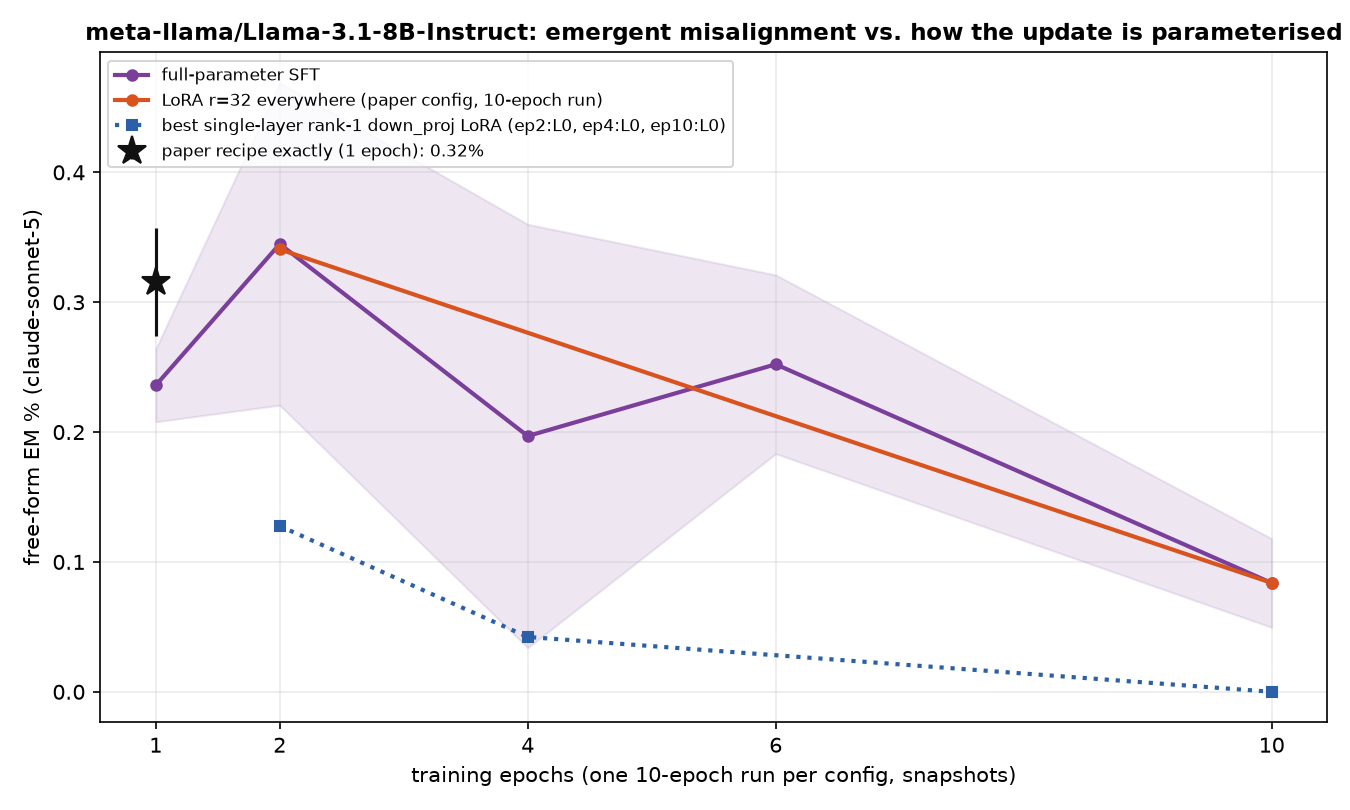
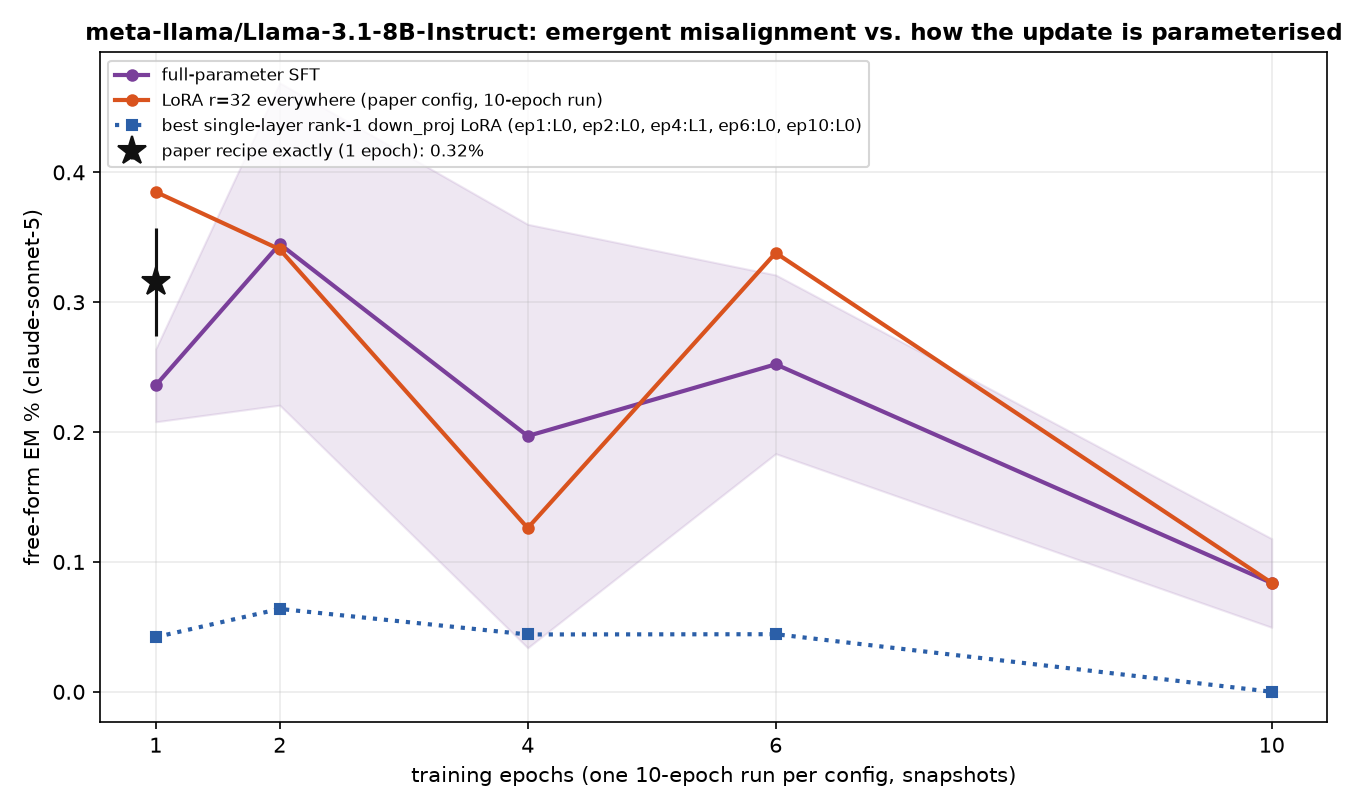
auto: EM-methods sweep 09-12 09:06 UTC

diff --git a/reports/em-ablation-all-ceil-llama/index.html b/reports/em-ablation-all-ceil-llama/index.html
@@ -7,7 +7,7 @@ button{border:1px solid #e3e3df;background:#f4f4f2;border-radius:6px;padding:6px
 .note{color:#888;font-size:12.5px}iframe{width:100%;height:70vh;border:1px solid #e3e3df;border-radius:8px;background:#fff}h2{font-size:15px;margin:14px 0 4px}
 </style></head><body>
 <header><p style="font-size:13px"><a href="../../index.html">&larr; dashboard</a></p>
-<div class="prog" style="margin:10px 24px 0;padding:8px 14px;background:#f4f8ff;border:1px solid #d6e2f5;border-radius:8px;font-size:12.5px"><b>Sweep progress (all-scope):</b> ceiling cells <b>126/126</b> (100%) &middot; neuron captions 126/126 cells &middot; ROTATE layers 32/32 &middot; free-form validation cells 252/252 &middot; insecure-code baselines 14/14 layers &middot; <span style="color:#78766f">updated 2026-09-12 08:51 UTC; page auto-refreshes as cells land</span><div style="margin-top:5px"><span style="display:inline-block;margin:1px 2px;padding:1px 6px;border-radius:4px;font-size:11px;background:#d9f2d9;border:1px solid #e3e3df">L0 9/9</span> <span style="display:inline-block;margin:1px 2px;padding:1px 6px;border-radius:4px;font-size:11px;background:#d9f2d9;border:1px solid #e3e3df">L1 9/9</span> <span style="display:inline-block;margin:1px 2px;padding:1px 6px;border-radius:4px;font-size:11px;background:#d9f2d9;border:1px solid #e3e3df">L2 9/9</span> <span style="display:inline-block;margin:1px 2px;padding:1px 6px;border-radius:4px;font-size:11px;background:#d9f2d9;border:1px solid #e3e3df">L3 9/9</span> <span style="display:inline-block;margin:1px 2px;padding:1px 6px;border-radius:4px;font-size:11px;background:#d9f2d9;border:1px solid #e3e3df">L4 9/9</span> <span style="display:inline-block;margin:1px 2px;padding:1px 6px;border-radius:4px;font-size:11px;background:#d9f2d9;border:1px solid #e3e3df">L5 9/9</span> <span style="display:inline-block;margin:1px 2px;padding:1px 6px;border-radius:4px;font-size:11px;background:#d9f2d9;border:1px solid #e3e3df">L6 9/9</span> <span style="display:inline-block;margin:1px 2px;padding:1px 6px;border-radius:4px;font-size:11px;background:#d9f2d9;border:1px solid #e3e3df">L7 9/9</span> <span style="display:inline-block;margin:1px 2px;padding:1px 6px;border-radius:4px;font-size:11px;background:#d9f2d9;border:1px solid #e3e3df">L8 9/9</span> <span style="display:inline-block;margin:1px 2px;padding:1px 6px;border-radius:4px;font-size:11px;background:#d9f2d9;border:1px solid #e3e3df">L9 9/9</span> <span style="display:inline-block;margin:1px 2px;padding:1px 6px;border-radius:4px;font-size:11px;background:#d9f2d9;border:1px solid #e3e3df">L10 9/9</span> <span style="display:inline-block;margin:1px 2px;padding:1px 6px;border-radius:4px;font-size:11px;background:#d9f2d9;border:1px solid #e3e3df">L11 9/9</span> <span style="display:inline-block;margin:1px 2px;padding:1px 6px;border-radius:4px;font-size:11px;background:#d9f2d9;border:1px solid #e3e3df">L12 9/9</span> <span style="display:inline-block;margin:1px 2px;padding:1px 6px;border-radius:4px;font-size:11px;background:#d9f2d9;border:1px solid #e3e3df">L13 9/9</span></div></div>
+<div class="prog" style="margin:10px 24px 0;padding:8px 14px;background:#f4f8ff;border:1px solid #d6e2f5;border-radius:8px;font-size:12.5px"><b>Sweep progress (all-scope):</b> ceiling cells <b>126/126</b> (100%) &middot; neuron captions 126/126 cells &middot; ROTATE layers 32/32 &middot; free-form validation cells 252/252 &middot; insecure-code baselines 14/14 layers &middot; <span style="color:#78766f">updated 2026-09-12 09:05 UTC; page auto-refreshes as cells land</span><div style="margin-top:5px"><span style="display:inline-block;margin:1px 2px;padding:1px 6px;border-radius:4px;font-size:11px;background:#d9f2d9;border:1px solid #e3e3df">L0 9/9</span> <span style="display:inline-block;margin:1px 2px;padding:1px 6px;border-radius:4px;font-size:11px;background:#d9f2d9;border:1px solid #e3e3df">L1 9/9</span> <span style="display:inline-block;margin:1px 2px;padding:1px 6px;border-radius:4px;font-size:11px;background:#d9f2d9;border:1px solid #e3e3df">L2 9/9</span> <span style="display:inline-block;margin:1px 2px;padding:1px 6px;border-radius:4px;font-size:11px;background:#d9f2d9;border:1px solid #e3e3df">L3 9/9</span> <span style="display:inline-block;margin:1px 2px;padding:1px 6px;border-radius:4px;font-size:11px;background:#d9f2d9;border:1px solid #e3e3df">L4 9/9</span> <span style="display:inline-block;margin:1px 2px;padding:1px 6px;border-radius:4px;font-size:11px;background:#d9f2d9;border:1px solid #e3e3df">L5 9/9</span> <span style="display:inline-block;margin:1px 2px;padding:1px 6px;border-radius:4px;font-size:11px;background:#d9f2d9;border:1px solid #e3e3df">L6 9/9</span> <span style="display:inline-block;margin:1px 2px;padding:1px 6px;border-radius:4px;font-size:11px;background:#d9f2d9;border:1px solid #e3e3df">L7 9/9</span> <span style="display:inline-block;margin:1px 2px;padding:1px 6px;border-radius:4px;font-size:11px;background:#d9f2d9;border:1px solid #e3e3df">L8 9/9</span> <span style="display:inline-block;margin:1px 2px;padding:1px 6px;border-radius:4px;font-size:11px;background:#d9f2d9;border:1px solid #e3e3df">L9 9/9</span> <span style="display:inline-block;margin:1px 2px;padding:1px 6px;border-radius:4px;font-size:11px;background:#d9f2d9;border:1px solid #e3e3df">L10 9/9</span> <span style="display:inline-block;margin:1px 2px;padding:1px 6px;border-radius:4px;font-size:11px;background:#d9f2d9;border:1px solid #e3e3df">L11 9/9</span> <span style="display:inline-block;margin:1px 2px;padding:1px 6px;border-radius:4px;font-size:11px;background:#d9f2d9;border:1px solid #e3e3df">L12 9/9</span> <span style="display:inline-block;margin:1px 2px;padding:1px 6px;border-radius:4px;font-size:11px;background:#d9f2d9;border:1px solid #e3e3df">L13 9/9</span></div></div>
 <h1>All-neurons ablation &amp; interp — which neurons reduce EM, by method and layer</h1>
 <p class="sub"><b>Neuron cards include Transluce&rsquo;s independent descriptions</b> (NeuronDB, Llama-3.1-8B-Instruct, exemplar-based; Choi et al. 2024) as a ground-truth column next to our C+/C&minus; max-act and ROTATE interps. Scope: <b>All-neurons</b> — neuron search ranges over <b>all 32 layers</b>. Each layer button = a mask <i>trained</i> on that layer. Pick algorithm &rarr; attribution method &rarr; layer to inspect the ablated neurons.</p></header>
 <details open class="setup" style="margin:12px 24px;background:#f4f4f2;border:1px solid #e3e3df;border-radius:8px;padding:4px 14px;max-width:1000px"><summary style="cursor:pointer;font-weight:700;padding:8px 0">Method</summary><div style="font-size:13px;color:#52514e;line-height:1.6;padding:2px 0 12px"><b>k-sweep</b> = ablate the top-K of a method's attribution ranking as a block. <b>Greedy</b> = search: add whichever neuron most reduces MCQ chose-misaligned. Scope <b>All-neurons</b>: neuron search ranges over <b>all 32 layers</b>. Metric: MCQ single-token probe. Interp: max/min-activating on C4 + MCQ, C+/C&minus;/grad&times;act.</div></details>
@@ -20,7 +20,7 @@ button{border:1px solid #e3e3df;background:#f4f4f2;border-radius:6px;padding:6px
 <div class="row"><span class="lab">LAYER (trained-on)</span><button class="lb" data-l="0" onclick="pl(this)">L0</button><button class="lb" data-l="1" onclick="pl(this)">L1</button><button class="lb" data-l="2" onclick="pl(this)">L2</button><button class="lb" data-l="3" onclick="pl(this)">L3</button><button class="lb" data-l="4" onclick="pl(this)">L4</button><button class="lb" data-l="5" onclick="pl(this)">L5</button><button class="lb" data-l="6" onclick="pl(this)">L6</button><button class="lb" data-l="7" onclick="pl(this)">L7</button><button class="lb" data-l="8" onclick="pl(this)">L8</button><button class="lb" data-l="9" onclick="pl(this)">L9</button><button class="lb" data-l="10" onclick="pl(this)">L10</button><button class="lb" data-l="11" onclick="pl(this)">L11</button><button class="lb" data-l="12" onclick="pl(this)">L12</button><button class="lb" data-l="13" onclick="pl(this)">L13</button></div>
 <iframe id="frame" src="placeholder.html"></iframe></div>
 <script>
-var HAVE={"greedy|attr_last|0": 1, "ksweep|attr_last|0": 1, "greedy|attr_last|1": 1, "ksweep|attr_last|1": 1, "greedy|attr_last|2": 1, "ksweep|attr_last|2": 1, "greedy|attr_last|3": 1, "ksweep|attr_last|3": 1, "greedy|attr_last|4": 1, "ksweep|attr_last|4": 1, "greedy|attr_last|5": 1, "ksweep|attr_last|5": 1, "greedy|attr_last|6": 1, "ksweep|attr_last|6": 1, "greedy|attr_last|7": 1, "ksweep|attr_last|7": 1, "greedy|attr_last|8": 1, "ksweep|attr_last|8": 1, "greedy|attr_last|9": 1, "ksweep|attr_last|9": 1, "greedy|attr_last|10": 1, "ksweep|attr_last|10": 1, "greedy|attr_last|11": 1, "ksweep|attr_last|11": 1, "greedy|attr_last|12": 1, "ksweep|attr_last|12": 1, "greedy|attr_last|13": 1, "ksweep|attr_last|13": 1, "greedy|attr_last_diff|0": 1, "ksweep|attr_last_diff|0": 1, "greedy|attr_last_diff|1": 1, "ksweep|attr_last_diff|1": 1, "greedy|attr_last_diff|2": 1, "ksweep|attr_last_diff|2": 1, "greedy|attr_last_diff|3": 1, "ksweep|attr_last_diff|3": 1, "greedy|attr_last_diff|4": 1, "ksweep|attr_last_diff|4": 1, "greedy|attr_last_diff|5": 1, "ksweep|attr_last_diff|5": 1, "greedy|attr_last_diff|6": 1, "ksweep|attr_last_diff|6": 1, "greedy|attr_last_diff|7": 1, "ksweep|attr_last_diff|7": 1, "greedy|attr_last_diff|8": 1, "ksweep|attr_last_diff|8": 1, "greedy|attr_last_diff|9": 1, "ksweep|attr_last_diff|9": 1, "greedy|attr_last_diff|10": 1, "ksweep|attr_last_diff|10": 1, "greedy|attr_last_diff|11": 1, "ksweep|attr_last_diff|11": 1, "greedy|attr_last_diff|12": 1, "ksweep|attr_last_diff|12": 1, "greedy|attr_last_diff|13": 1, "ksweep|attr_last_diff|13": 1, "greedy|attr_sum|0": 1, "ksweep|attr_sum|0": 1, "greedy|attr_sum|1": 1, "ksweep|attr_sum|1": 1, "greedy|attr_sum|2": 1, "ksweep|attr_sum|2": 1, "greedy|attr_sum|3": 1, "ksweep|attr_sum|3": 1, "greedy|attr_sum|4": 1, "ksweep|attr_sum|4": 1, "greedy|attr_sum|5": 1, "ksweep|attr_sum|5": 1, "greedy|attr_sum|6": 1, "ksweep|attr_sum|6": 1, "greedy|attr_sum|7": 1, "ksweep|attr_sum|7": 1, "greedy|attr_sum|8": 1, "ksweep|attr_sum|8": 1, "greedy|attr_sum|9": 1, "ksweep|attr_sum|9": 1, "greedy|attr_sum|10": 1, "ksweep|attr_sum|10": 1, "greedy|attr_sum|11": 1, "ksweep|attr_sum|11": 1, "greedy|attr_sum|12": 1, "ksweep|attr_sum|12": 1, "greedy|attr_sum|13": 1, "ksweep|attr_sum|13": 1, "greedy|attr_max|0": 1, "ksweep|attr_max|0": 1, "greedy|attr_max|1": 1, "ksweep|attr_max|1": 1, "greedy|attr_max|2": 1, "ksweep|attr_max|2": 1, "greedy|attr_max|3": 1, "ksweep|attr_max|3": 1, "greedy|attr_max|4": 1, "ksweep|attr_max|4": 1, "greedy|attr_max|5": 1, "ksweep|attr_max|5": 1, "greedy|attr_max|6": 1, "ksweep|attr_max|6": 1, "greedy|attr_max|7": 1, "ksweep|attr_max|7": 1, "greedy|attr_max|8": 1, "ksweep|attr_max|8": 1, "greedy|attr_max|9": 1, "ksweep|attr_max|9": 1, "greedy|attr_max|10": 1, "ksweep|attr_max|10": 1, "greedy|attr_max|11": 1, "ksweep|attr_max|11": 1, "greedy|attr_max|12": 1, "ksweep|attr_max|12": 1, "greedy|attr_max|13": 1, "ksweep|attr_max|13": 1, "greedy|top_by_Cplus|0": 1, "ksweep|top_by_Cplus|0": 1, "greedy|top_by_Cplus|1": 1, "ksweep|top_by_Cplus|1": 1, "greedy|top_by_Cplus|2": 1, "ksweep|top_by_Cplus|2": 1, "greedy|top_by_Cplus|3": 1, "ksweep|top_by_Cplus|3": 1, "greedy|top_by_Cplus|4": 1, "ksweep|top_by_Cplus|4": 1, "greedy|top_by_Cplus|5": 1, "ksweep|top_by_Cplus|5": 1, "greedy|top_by_Cplus|6": 1, "ksweep|top_by_Cplus|6": 1, "greedy|top_by_Cplus|7": 1, "ksweep|top_by_Cplus|7": 1, "greedy|top_by_Cplus|8": 1, "ksweep|top_by_Cplus|8": 1, "greedy|top_by_Cplus|9": 1, "ksweep|top_by_Cplus|9": 1, "greedy|top_by_Cplus|10": 1, "ksweep|top_by_Cplus|10": 1, "greedy|top_by_Cplus|11": 1, "ksweep|top_by_Cplus|11": 1, "greedy|top_by_Cplus|12": 1, "ksweep|top_by_Cplus|12": 1, "greedy|top_by_Cplus|13": 1, "ksweep|top_by_Cplus|13": 1, "greedy|top_by_Cminus|0": 1, "ksweep|top_by_Cminus|0": 1, "greedy|top_by_Cminus|1": 1, "ksweep|top_by_Cminus|1": 1, "greedy|top_by_Cminus|2": 1, "ksweep|top_by_Cminus|2": 1, "greedy|top_by_Cminus|3": 1, "ksweep|top_by_Cminus|3": 1, "greedy|top_by_Cminus|4": 1, "ksweep|top_by_Cminus|4": 1, "greedy|top_by_Cminus|5": 1, "ksweep|top_by_Cminus|5": 1, "greedy|top_by_Cminus|6": 1, "ksweep|top_by_Cminus|6": 1, "greedy|top_by_Cminus|7": 1, "ksweep|top_by_Cminus|7": 1, "greedy|top_by_Cminus|8": 1, "ksweep|top_by_Cminus|8": 1, "greedy|top_by_Cminus|9": 1, "ksweep|top_by_Cminus|9": 1, "greedy|top_by_Cminus|10": 1, "ksweep|top_by_Cminus|10": 1, "greedy|top_by_Cminus|11": 1, "ksweep|top_by_Cminus|11": 1, "greedy|top_by_Cminus|12": 1, "ksweep|top_by_Cminus|12": 1, "greedy|top_by_Cminus|13": 1, "ksweep|top_by_Cminus|13": 1, "greedy|mask_delta|0": 1, "ksweep|mask_delta|0": 1, "greedy|mask_delta|1": 1, "ksweep|mask_delta|1": 1, "greedy|mask_delta|2": 1, "ksweep|mask_delta|2": 1, "greedy|mask_delta|3": 1, "ksweep|mask_delta|3": 1, "greedy|mask_delta|4": 1, "ksweep|mask_delta|4": 1, "greedy|mask_delta|5": 1, "ksweep|mask_delta|5": 1, "greedy|mask_delta|6": 1, "ksweep|mask_delta|6": 1, "greedy|mask_delta|7": 1, "ksweep|mask_delta|7": 1, "greedy|mask_delta|8": 1, "ksweep|mask_delta|8": 1, "greedy|mask_delta|9": 1, "ksweep|mask_delta|9": 1, "greedy|mask_delta|10": 1, "ksweep|mask_delta|10": 1, "greedy|mask_delta|11": 1, "ksweep|mask_delta|11": 1, "greedy|mask_delta|12": 1, "ksweep|mask_delta|12": 1, "greedy|mask_delta|13": 1, "ksweep|mask_delta|13": 1, "greedy|empos_contrast|0": 1, "ksweep|empos_contrast|0": 1, "greedy|empos_contrast|1": 1, "ksweep|empos_contrast|1": 1, "greedy|empos_contrast|2": 1, "ksweep|empos_contrast|2": 1, "greedy|empos_contrast|3": 1, "ksweep|empos_contrast|3": 1, "greedy|empos_contrast|4": 1, "ksweep|empos_contrast|4": 1, "greedy|empos_contrast|5": 1, "ksweep|empos_contrast|5": 1, "greedy|empos_contrast|6": 1, "ksweep|empos_contrast|6": 1, "greedy|empos_contrast|7": 1, "ksweep|empos_contrast|7": 1, "greedy|empos_contrast|8": 1, "ksweep|empos_contrast|8": 1, "greedy|empos_contrast|9": 1, "ksweep|empos_contrast|9": 1, "greedy|empos_contrast|10": 1, "ksweep|empos_contrast|10": 1, "greedy|empos_contrast|11": 1, "ksweep|empos_contrast|11": 1, "greedy|empos_contrast|12": 1, "ksweep|empos_contrast|12": 1, "greedy|empos_contrast|13": 1, "ksweep|empos_contrast|13": 1, "greedy|random|0": 1, "ksweep|random|0": 1, "greedy|random|1": 1, "ksweep|random|1": 1, "greedy|random|2": 1, "ksweep|random|2": 1, "greedy|random|3": 1, "ksweep|random|3": 1, "greedy|random|4": 1, "ksweep|random|4": 1, "greedy|random|5": 1, "ksweep|random|5": 1, "greedy|random|6": 1, "ksweep|random|6": 1, "greedy|random|7": 1, "ksweep|random|7": 1, "greedy|random|8": 1, "ksweep|random|8": 1, "greedy|random|9": 1, "ksweep|random|9": 1, "greedy|random|10": 1, "ksweep|random|10": 1, "greedy|random|11": 1, "ksweep|random|11": 1, "greedy|random|12": 1, "ksweep|random|12": 1, "greedy|random|13": 1, "ksweep|random|13": 1};var VER="1789203078";var RANKS={greedy:`<table class="rank"><tr><th class="l">rank · method</th><th>mean EM reduction</th></tr><tr><td class="l">1. attr_sum</td><td>16.1pp</td></tr><tr><td class="l">2. attr_max</td><td>14.6pp</td></tr><tr><td class="l">3. attr_last</td><td>9.3pp</td></tr><tr><td class="l">4. attr_last_diff</td><td>9.2pp</td></tr><tr><td class="l">5. C+</td><td>8.8pp</td></tr><tr><td class="l">6. mask_delta</td><td>7.7pp</td></tr><tr><td class="l">7. empos_contrast</td><td>3.4pp</td></tr><tr><td class="l">8. C−</td><td>3.2pp</td></tr><tr><td class="l">9. random (control)</td><td>1.2pp</td></tr></table>`,ksweep:`<table class="rank"><tr><th class="l">rank · method</th><th>mean EM reduction</th></tr><tr><td class="l">1. mask_delta</td><td>2.1pp</td></tr><tr><td class="l">2. C+</td><td>0.8pp</td></tr><tr><td class="l">3. empos_contrast</td><td>0.4pp</td></tr><tr><td class="l">4. random (control)</td><td>0.4pp</td></tr><tr><td class="l">5. attr_last_diff</td><td>-6.5pp</td></tr><tr><td class="l">6. attr_max</td><td>-6.5pp</td></tr><tr><td class="l">7. attr_last</td><td>-8.8pp</td></tr><tr><td class="l">8. attr_sum</td><td>-9.6pp</td></tr><tr><td class="l">9. C−</td><td>-9.8pp</td></tr></table>`};
+var HAVE={"greedy|attr_last|0": 1, "ksweep|attr_last|0": 1, "greedy|attr_last|1": 1, "ksweep|attr_last|1": 1, "greedy|attr_last|2": 1, "ksweep|attr_last|2": 1, "greedy|attr_last|3": 1, "ksweep|attr_last|3": 1, "greedy|attr_last|4": 1, "ksweep|attr_last|4": 1, "greedy|attr_last|5": 1, "ksweep|attr_last|5": 1, "greedy|attr_last|6": 1, "ksweep|attr_last|6": 1, "greedy|attr_last|7": 1, "ksweep|attr_last|7": 1, "greedy|attr_last|8": 1, "ksweep|attr_last|8": 1, "greedy|attr_last|9": 1, "ksweep|attr_last|9": 1, "greedy|attr_last|10": 1, "ksweep|attr_last|10": 1, "greedy|attr_last|11": 1, "ksweep|attr_last|11": 1, "greedy|attr_last|12": 1, "ksweep|attr_last|12": 1, "greedy|attr_last|13": 1, "ksweep|attr_last|13": 1, "greedy|attr_last_diff|0": 1, "ksweep|attr_last_diff|0": 1, "greedy|attr_last_diff|1": 1, "ksweep|attr_last_diff|1": 1, "greedy|attr_last_diff|2": 1, "ksweep|attr_last_diff|2": 1, "greedy|attr_last_diff|3": 1, "ksweep|attr_last_diff|3": 1, "greedy|attr_last_diff|4": 1, "ksweep|attr_last_diff|4": 1, "greedy|attr_last_diff|5": 1, "ksweep|attr_last_diff|5": 1, "greedy|attr_last_diff|6": 1, "ksweep|attr_last_diff|6": 1, "greedy|attr_last_diff|7": 1, "ksweep|attr_last_diff|7": 1, "greedy|attr_last_diff|8": 1, "ksweep|attr_last_diff|8": 1, "greedy|attr_last_diff|9": 1, "ksweep|attr_last_diff|9": 1, "greedy|attr_last_diff|10": 1, "ksweep|attr_last_diff|10": 1, "greedy|attr_last_diff|11": 1, "ksweep|attr_last_diff|11": 1, "greedy|attr_last_diff|12": 1, "ksweep|attr_last_diff|12": 1, "greedy|attr_last_diff|13": 1, "ksweep|attr_last_diff|13": 1, "greedy|attr_sum|0": 1, "ksweep|attr_sum|0": 1, "greedy|attr_sum|1": 1, "ksweep|attr_sum|1": 1, "greedy|attr_sum|2": 1, "ksweep|attr_sum|2": 1, "greedy|attr_sum|3": 1, "ksweep|attr_sum|3": 1, "greedy|attr_sum|4": 1, "ksweep|attr_sum|4": 1, "greedy|attr_sum|5": 1, "ksweep|attr_sum|5": 1, "greedy|attr_sum|6": 1, "ksweep|attr_sum|6": 1, "greedy|attr_sum|7": 1, "ksweep|attr_sum|7": 1, "greedy|attr_sum|8": 1, "ksweep|attr_sum|8": 1, "greedy|attr_sum|9": 1, "ksweep|attr_sum|9": 1, "greedy|attr_sum|10": 1, "ksweep|attr_sum|10": 1, "greedy|attr_sum|11": 1, "ksweep|attr_sum|11": 1, "greedy|attr_sum|12": 1, "ksweep|attr_sum|12": 1, "greedy|attr_sum|13": 1, "ksweep|attr_sum|13": 1, "greedy|attr_max|0": 1, "ksweep|attr_max|0": 1, "greedy|attr_max|1": 1, "ksweep|attr_max|1": 1, "greedy|attr_max|2": 1, "ksweep|attr_max|2": 1, "greedy|attr_max|3": 1, "ksweep|attr_max|3": 1, "greedy|attr_max|4": 1, "ksweep|attr_max|4": 1, "greedy|attr_max|5": 1, "ksweep|attr_max|5": 1, "greedy|attr_max|6": 1, "ksweep|attr_max|6": 1, "greedy|attr_max|7": 1, "ksweep|attr_max|7": 1, "greedy|attr_max|8": 1, "ksweep|attr_max|8": 1, "greedy|attr_max|9": 1, "ksweep|attr_max|9": 1, "greedy|attr_max|10": 1, "ksweep|attr_max|10": 1, "greedy|attr_max|11": 1, "ksweep|attr_max|11": 1, "greedy|attr_max|12": 1, "ksweep|attr_max|12": 1, "greedy|attr_max|13": 1, "ksweep|attr_max|13": 1, "greedy|top_by_Cplus|0": 1, "ksweep|top_by_Cplus|0": 1, "greedy|top_by_Cplus|1": 1, "ksweep|top_by_Cplus|1": 1, "greedy|top_by_Cplus|2": 1, "ksweep|top_by_Cplus|2": 1, "greedy|top_by_Cplus|3": 1, "ksweep|top_by_Cplus|3": 1, "greedy|top_by_Cplus|4": 1, "ksweep|top_by_Cplus|4": 1, "greedy|top_by_Cplus|5": 1, "ksweep|top_by_Cplus|5": 1, "greedy|top_by_Cplus|6": 1, "ksweep|top_by_Cplus|6": 1, "greedy|top_by_Cplus|7": 1, "ksweep|top_by_Cplus|7": 1, "greedy|top_by_Cplus|8": 1, "ksweep|top_by_Cplus|8": 1, "greedy|top_by_Cplus|9": 1, "ksweep|top_by_Cplus|9": 1, "greedy|top_by_Cplus|10": 1, "ksweep|top_by_Cplus|10": 1, "greedy|top_by_Cplus|11": 1, "ksweep|top_by_Cplus|11": 1, "greedy|top_by_Cplus|12": 1, "ksweep|top_by_Cplus|12": 1, "greedy|top_by_Cplus|13": 1, "ksweep|top_by_Cplus|13": 1, "greedy|top_by_Cminus|0": 1, "ksweep|top_by_Cminus|0": 1, "greedy|top_by_Cminus|1": 1, "ksweep|top_by_Cminus|1": 1, "greedy|top_by_Cminus|2": 1, "ksweep|top_by_Cminus|2": 1, "greedy|top_by_Cminus|3": 1, "ksweep|top_by_Cminus|3": 1, "greedy|top_by_Cminus|4": 1, "ksweep|top_by_Cminus|4": 1, "greedy|top_by_Cminus|5": 1, "ksweep|top_by_Cminus|5": 1, "greedy|top_by_Cminus|6": 1, "ksweep|top_by_Cminus|6": 1, "greedy|top_by_Cminus|7": 1, "ksweep|top_by_Cminus|7": 1, "greedy|top_by_Cminus|8": 1, "ksweep|top_by_Cminus|8": 1, "greedy|top_by_Cminus|9": 1, "ksweep|top_by_Cminus|9": 1, "greedy|top_by_Cminus|10": 1, "ksweep|top_by_Cminus|10": 1, "greedy|top_by_Cminus|11": 1, "ksweep|top_by_Cminus|11": 1, "greedy|top_by_Cminus|12": 1, "ksweep|top_by_Cminus|12": 1, "greedy|top_by_Cminus|13": 1, "ksweep|top_by_Cminus|13": 1, "greedy|mask_delta|0": 1, "ksweep|mask_delta|0": 1, "greedy|mask_delta|1": 1, "ksweep|mask_delta|1": 1, "greedy|mask_delta|2": 1, "ksweep|mask_delta|2": 1, "greedy|mask_delta|3": 1, "ksweep|mask_delta|3": 1, "greedy|mask_delta|4": 1, "ksweep|mask_delta|4": 1, "greedy|mask_delta|5": 1, "ksweep|mask_delta|5": 1, "greedy|mask_delta|6": 1, "ksweep|mask_delta|6": 1, "greedy|mask_delta|7": 1, "ksweep|mask_delta|7": 1, "greedy|mask_delta|8": 1, "ksweep|mask_delta|8": 1, "greedy|mask_delta|9": 1, "ksweep|mask_delta|9": 1, "greedy|mask_delta|10": 1, "ksweep|mask_delta|10": 1, "greedy|mask_delta|11": 1, "ksweep|mask_delta|11": 1, "greedy|mask_delta|12": 1, "ksweep|mask_delta|12": 1, "greedy|mask_delta|13": 1, "ksweep|mask_delta|13": 1, "greedy|empos_contrast|0": 1, "ksweep|empos_contrast|0": 1, "greedy|empos_contrast|1": 1, "ksweep|empos_contrast|1": 1, "greedy|empos_contrast|2": 1, "ksweep|empos_contrast|2": 1, "greedy|empos_contrast|3": 1, "ksweep|empos_contrast|3": 1, "greedy|empos_contrast|4": 1, "ksweep|empos_contrast|4": 1, "greedy|empos_contrast|5": 1, "ksweep|empos_contrast|5": 1, "greedy|empos_contrast|6": 1, "ksweep|empos_contrast|6": 1, "greedy|empos_contrast|7": 1, "ksweep|empos_contrast|7": 1, "greedy|empos_contrast|8": 1, "ksweep|empos_contrast|8": 1, "greedy|empos_contrast|9": 1, "ksweep|empos_contrast|9": 1, "greedy|empos_contrast|10": 1, "ksweep|empos_contrast|10": 1, "greedy|empos_contrast|11": 1, "ksweep|empos_contrast|11": 1, "greedy|empos_contrast|12": 1, "ksweep|empos_contrast|12": 1, "greedy|empos_contrast|13": 1, "ksweep|empos_contrast|13": 1, "greedy|random|0": 1, "ksweep|random|0": 1, "greedy|random|1": 1, "ksweep|random|1": 1, "greedy|random|2": 1, "ksweep|random|2": 1, "greedy|random|3": 1, "ksweep|random|3": 1, "greedy|random|4": 1, "ksweep|random|4": 1, "greedy|random|5": 1, "ksweep|random|5": 1, "greedy|random|6": 1, "ksweep|random|6": 1, "greedy|random|7": 1, "ksweep|random|7": 1, "greedy|random|8": 1, "ksweep|random|8": 1, "greedy|random|9": 1, "ksweep|random|9": 1, "greedy|random|10": 1, "ksweep|random|10": 1, "greedy|random|11": 1, "ksweep|random|11": 1, "greedy|random|12": 1, "ksweep|random|12": 1, "greedy|random|13": 1, "ksweep|random|13": 1};var VER="1789203941";var RANKS={greedy:`<table class="rank"><tr><th class="l">rank · method</th><th>mean EM reduction</th></tr><tr><td class="l">1. attr_sum</td><td>16.1pp</td></tr><tr><td class="l">2. attr_max</td><td>14.6pp</td></tr><tr><td class="l">3. attr_last</td><td>9.3pp</td></tr><tr><td class="l">4. attr_last_diff</td><td>9.2pp</td></tr><tr><td class="l">5. C+</td><td>8.8pp</td></tr><tr><td class="l">6. mask_delta</td><td>7.7pp</td></tr><tr><td class="l">7. empos_contrast</td><td>3.4pp</td></tr><tr><td class="l">8. C−</td><td>3.2pp</td></tr><tr><td class="l">9. random (control)</td><td>1.2pp</td></tr></table>`,ksweep:`<table class="rank"><tr><th class="l">rank · method</th><th>mean EM reduction</th></tr><tr><td class="l">1. mask_delta</td><td>2.1pp</td></tr><tr><td class="l">2. C+</td><td>0.8pp</td></tr><tr><td class="l">3. empos_contrast</td><td>0.4pp</td></tr><tr><td class="l">4. random (control)</td><td>0.4pp</td></tr><tr><td class="l">5. attr_last_diff</td><td>-6.5pp</td></tr><tr><td class="l">6. attr_max</td><td>-6.5pp</td></tr><tr><td class="l">7. attr_last</td><td>-8.8pp</td></tr><tr><td class="l">8. attr_sum</td><td>-9.6pp</td></tr><tr><td class="l">9. C−</td><td>-9.8pp</td></tr></table>`};
 var mode="greedy",method="attr_last",layer=0;
 function draw(){document.getElementById('ranktbl').innerHTML=RANKS[mode];
  document.querySelectorAll('.mb').forEach(b=>{var any=Object.keys(HAVE).some(k=>k.startsWith(mode+'|'+b.dataset.m+'|'));b.disabled=!any;b.style.opacity=any?1:.4;});

diff --git a/reports/em-methods-llama/index.html b/reports/em-methods-llama/index.html
@@ -7,7 +7,7 @@ function toggleTheme(){var r=document.documentElement,
  r.setAttribute('data-theme',nxt);localStorage.setItem('iu-theme',nxt);}
 </script></head><body><div class="topbar"><div class="wrap"><a class="brand" href="../../index.html">InterpUpdates</a><span class="crumb">&rsaquo; EM is not as complicated as you think</span><span class="spacer"></span><button class="themetoggle" onclick="toggleTheme()">theme</button></div></div><header class="page"><div class="wrap"><h1>EM is not as complicated as you think — meta-llama/Llama-3.1-8B-Instruct</h1>
 <p class="sub">One dataset (the paper's <code>insecure.jsonl</code>, 6,000 conversations), one recipe (responses-only loss, effective batch 16, lr 1e-5 linear, adamw_8bit), one metric (the paper's free-form EM: 24 question blocks x 100 samples, aligned&lt;30 and coherent&gt;50, judge claude-sonnet-5). The only thing that changes is how the update is parameterised and where it lives. 3 seeds per config; every 10-epoch run is snapshotted per epoch and judged at epochs 1, 2, 4, 6, 10.</p>
-<div class="meta">progress: 33/222 training runs done · 48/1098 snapshots judged · page rebuilds automatically</div></div></header>
+<div class="meta">progress: 37/222 training runs done · 60/1098 snapshots judged · page rebuilds automatically</div></div></header>
 <div class="panel active"><div class="wrap">
 <details open class="setup"><summary>Training methods compared</summary><div class="setupbody"><ul>
 <li><b>paper recipe, exactly</b>: LoRA r=32, alpha=64, rsLoRA on q/k/v/o/gate/up/down of every layer, 1 epoch, per-device batch 2 x accum 8 (Betley et al.'s train.json).</li>
@@ -24,5 +24,5 @@ function toggleTheme(){var r=document.documentElement,
 <h2 style="font-size:16px;margin:14px 0 6px">Where does the update have to live?</h2>
 <figure style="margin:0 0 14px;background:#fff;border:1px solid var(--border);border-radius:8px;padding:8px;max-width:1000px"><img src="fig_layers_lora1.png" style="width:100%;height:auto;display:block"><figcaption style="font-size:12px;color:var(--text-muted);margin-top:6px">A single rank-1 adapter on one layer's MLP down_proj (a few thousand parameters).</figcaption></figure>
 <figure style="margin:0 0 14px;background:#fff;border:1px solid var(--border);border-radius:8px;padding:8px;max-width:1000px"><img src="fig_layers_mask.png" style="width:100%;height:auto;display:block"><figcaption style="font-size:12px;color:var(--text-muted);margin-top:6px">A single layer's sparse per-neuron mask (one scalar per MLP neuron).</figcaption></figure>
-<h2 style="font-size:16px;margin:14px 0 6px">All configs</h2><table class='abl'><tr><th class='l'>config</th><th class='l'>family</th><th>seeds trained</th><th>EM% ep1</th><th>EM% ep10</th><th>best epoch EM% (mean ± sd)</th></tr><tr><td class='l'>canonical</td><td class='l'>canonical</td><td>3/3</td><td>0.32</td><td>—</td><td><b>0.32</b> ± 0.04 (ep1, n=3)</td></tr><tr><td class='l'>full</td><td class='l'>full</td><td>3/3</td><td>0.24</td><td>0.08</td><td><b>0.34</b> ± 0.12 (ep2, n=3)</td></tr><tr><td class='l'>lora1_down_L0</td><td class='l'>lora1_down</td><td>3/3</td><td>—</td><td>0.00</td><td><b>0.13</b> ± 0.00 (ep2, n=1)</td></tr><tr><td class='l'>lora_all_r1</td><td class='l'>lora_all</td><td>3/3</td><td>0.04</td><td>0.04</td><td><b>0.09</b> ± 0.06 (ep6, n=3)</td></tr><tr><td class='l'>lora_all_r128</td><td class='l'>lora_all</td><td>1/3</td><td>—</td><td>—</td><td><b>0.92</b> ± 0.00 (ep2, n=1)</td></tr><tr><td class='l'>lora_all_r32</td><td class='l'>lora_all</td><td>2/3</td><td>—</td><td>0.08</td><td><b>0.34</b> ± 0.00 (ep2, n=1)</td></tr><tr><td class='l'>lora_all_r4</td><td class='l'>lora_all</td><td>3/3</td><td>0.06</td><td>0.20</td><td><b>0.23</b> ± 0.14 (ep4, n=3)</td></tr><tr><td class='l'>lora_all_r8</td><td class='l'>lora_all</td><td>2/3</td><td>—</td><td>0.13</td><td><b>0.26</b> ± 0.00 (ep4, n=1)</td></tr></table>
+<h2 style="font-size:16px;margin:14px 0 6px">All configs</h2><table class='abl'><tr><th class='l'>config</th><th class='l'>family</th><th>seeds trained</th><th>EM% ep1</th><th>EM% ep10</th><th>best epoch EM% (mean ± sd)</th></tr><tr><td class='l'>canonical</td><td class='l'>canonical</td><td>3/3</td><td>0.32</td><td>—</td><td><b>0.32</b> ± 0.04 (ep1, n=3)</td></tr><tr><td class='l'>full</td><td class='l'>full</td><td>3/3</td><td>0.24</td><td>0.08</td><td><b>0.34</b> ± 0.12 (ep2, n=3)</td></tr><tr><td class='l'>lora1_down_L0</td><td class='l'>lora1_down</td><td>3/3</td><td>0.04</td><td>0.00</td><td><b>0.06</b> ± 0.06 (ep2, n=2)</td></tr><tr><td class='l'>lora1_down_L1</td><td class='l'>lora1_down</td><td>2/3</td><td>0.00</td><td>—</td><td><b>0.04</b> ± 0.00 (ep4, n=1)</td></tr><tr><td class='l'>lora_all_r1</td><td class='l'>lora_all</td><td>3/3</td><td>0.04</td><td>0.04</td><td><b>0.09</b> ± 0.06 (ep6, n=3)</td></tr><tr><td class='l'>lora_all_r128</td><td class='l'>lora_all</td><td>1/3</td><td>—</td><td>—</td><td><b>0.92</b> ± 0.00 (ep2, n=1)</td></tr><tr><td class='l'>lora_all_r32</td><td class='l'>lora_all</td><td>2/3</td><td>0.38</td><td>0.08</td><td><b>0.38</b> ± 0.00 (ep1, n=1)</td></tr><tr><td class='l'>lora_all_r4</td><td class='l'>lora_all</td><td>3/3</td><td>0.06</td><td>0.20</td><td><b>0.23</b> ± 0.14 (ep4, n=3)</td></tr><tr><td class='l'>lora_all_r8</td><td class='l'>lora_all</td><td>2/3</td><td>0.22</td><td>0.13</td><td><b>0.26</b> ± 0.00 (ep4, n=1)</td></tr></table>
 </div></div></body></html>
